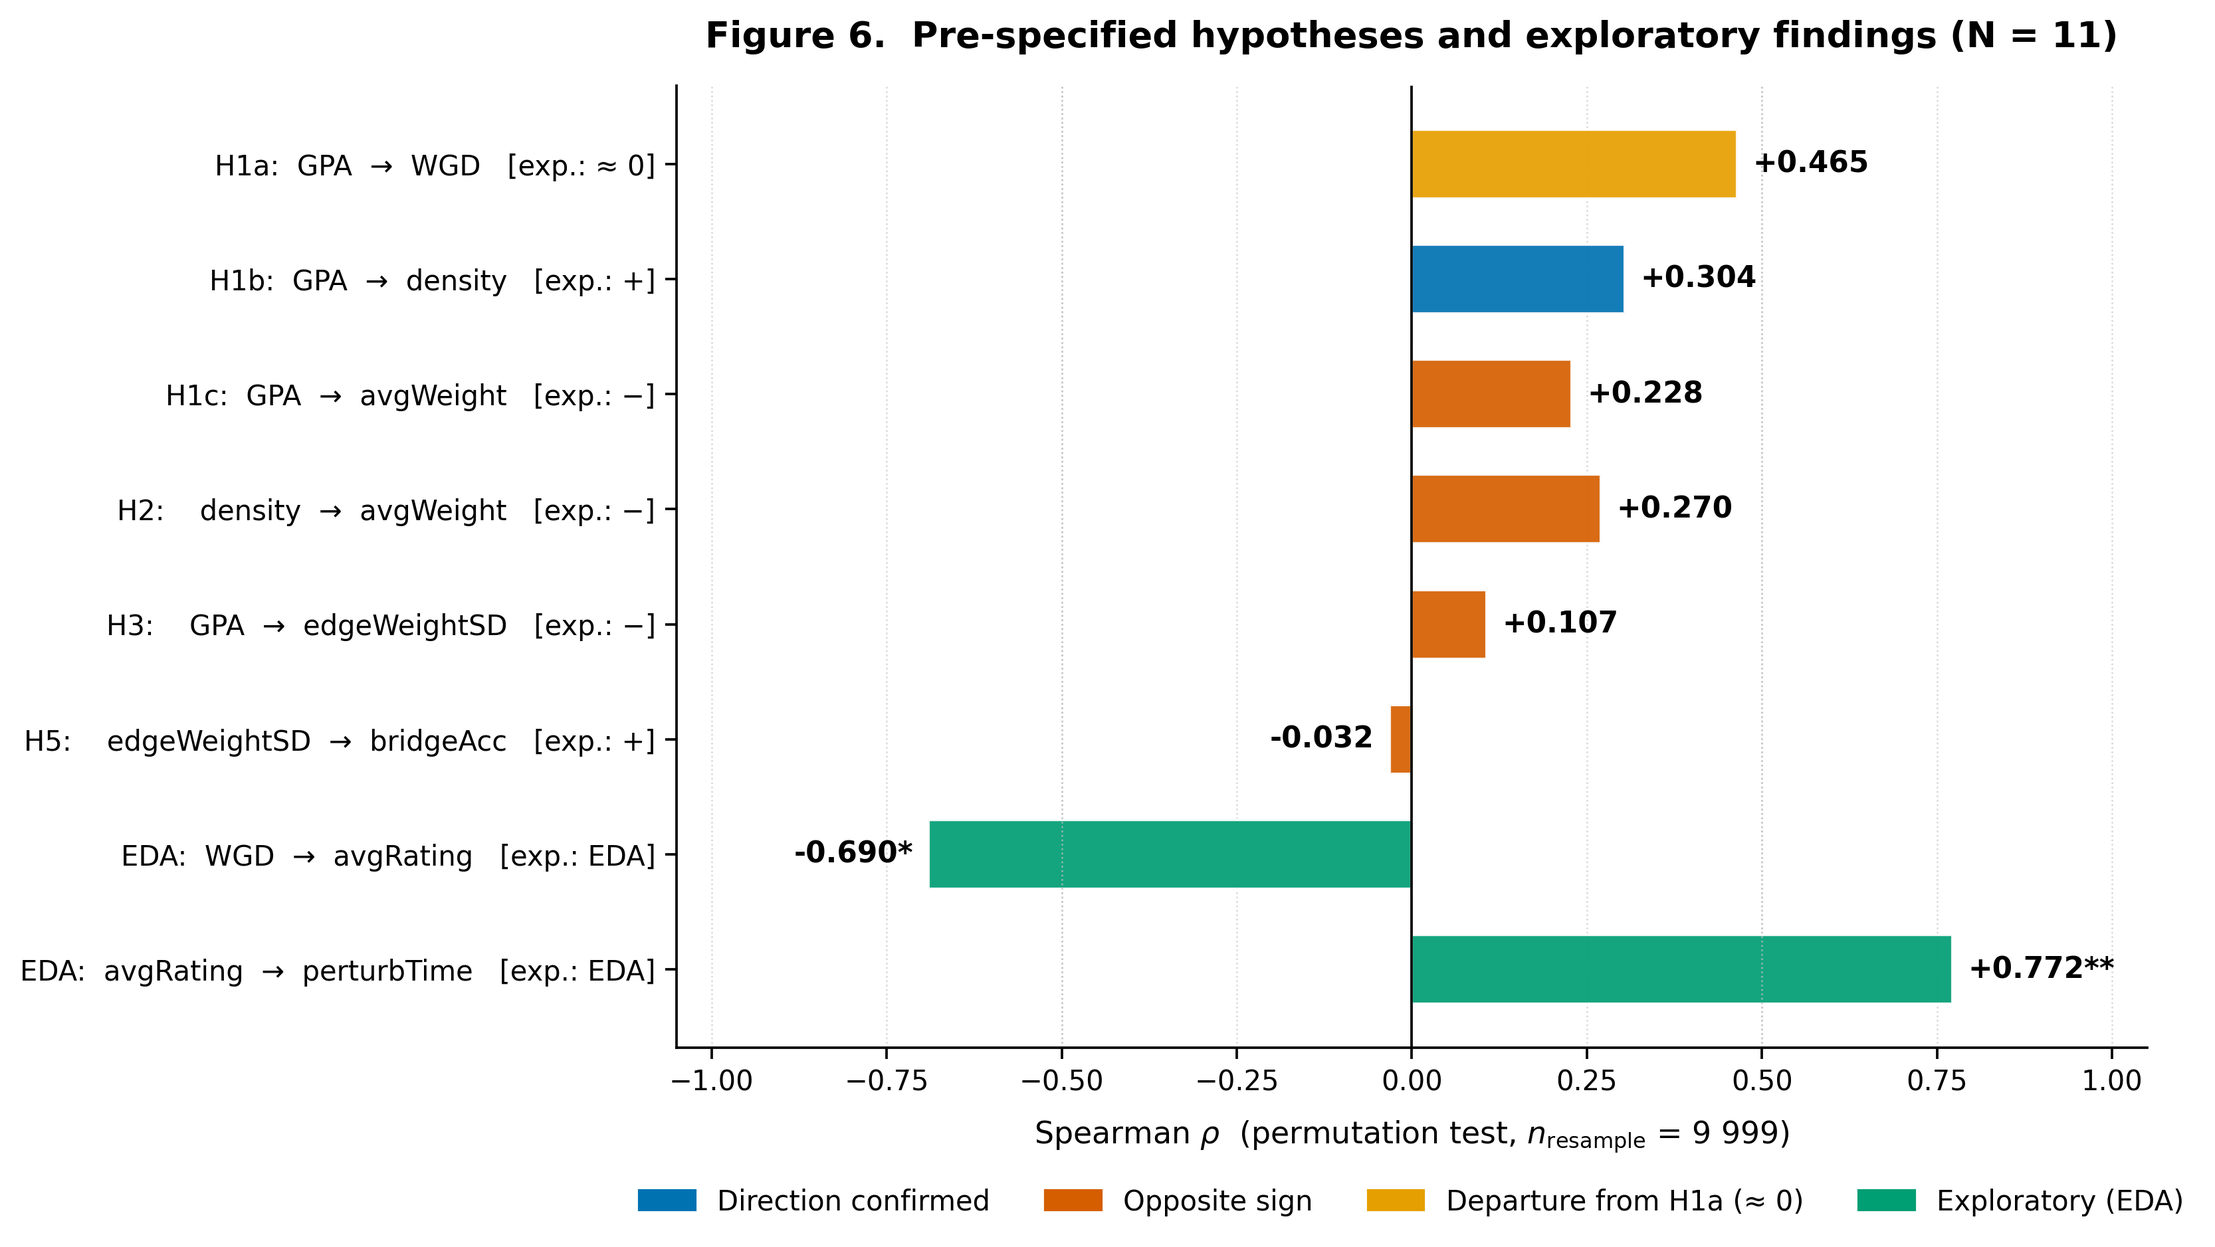
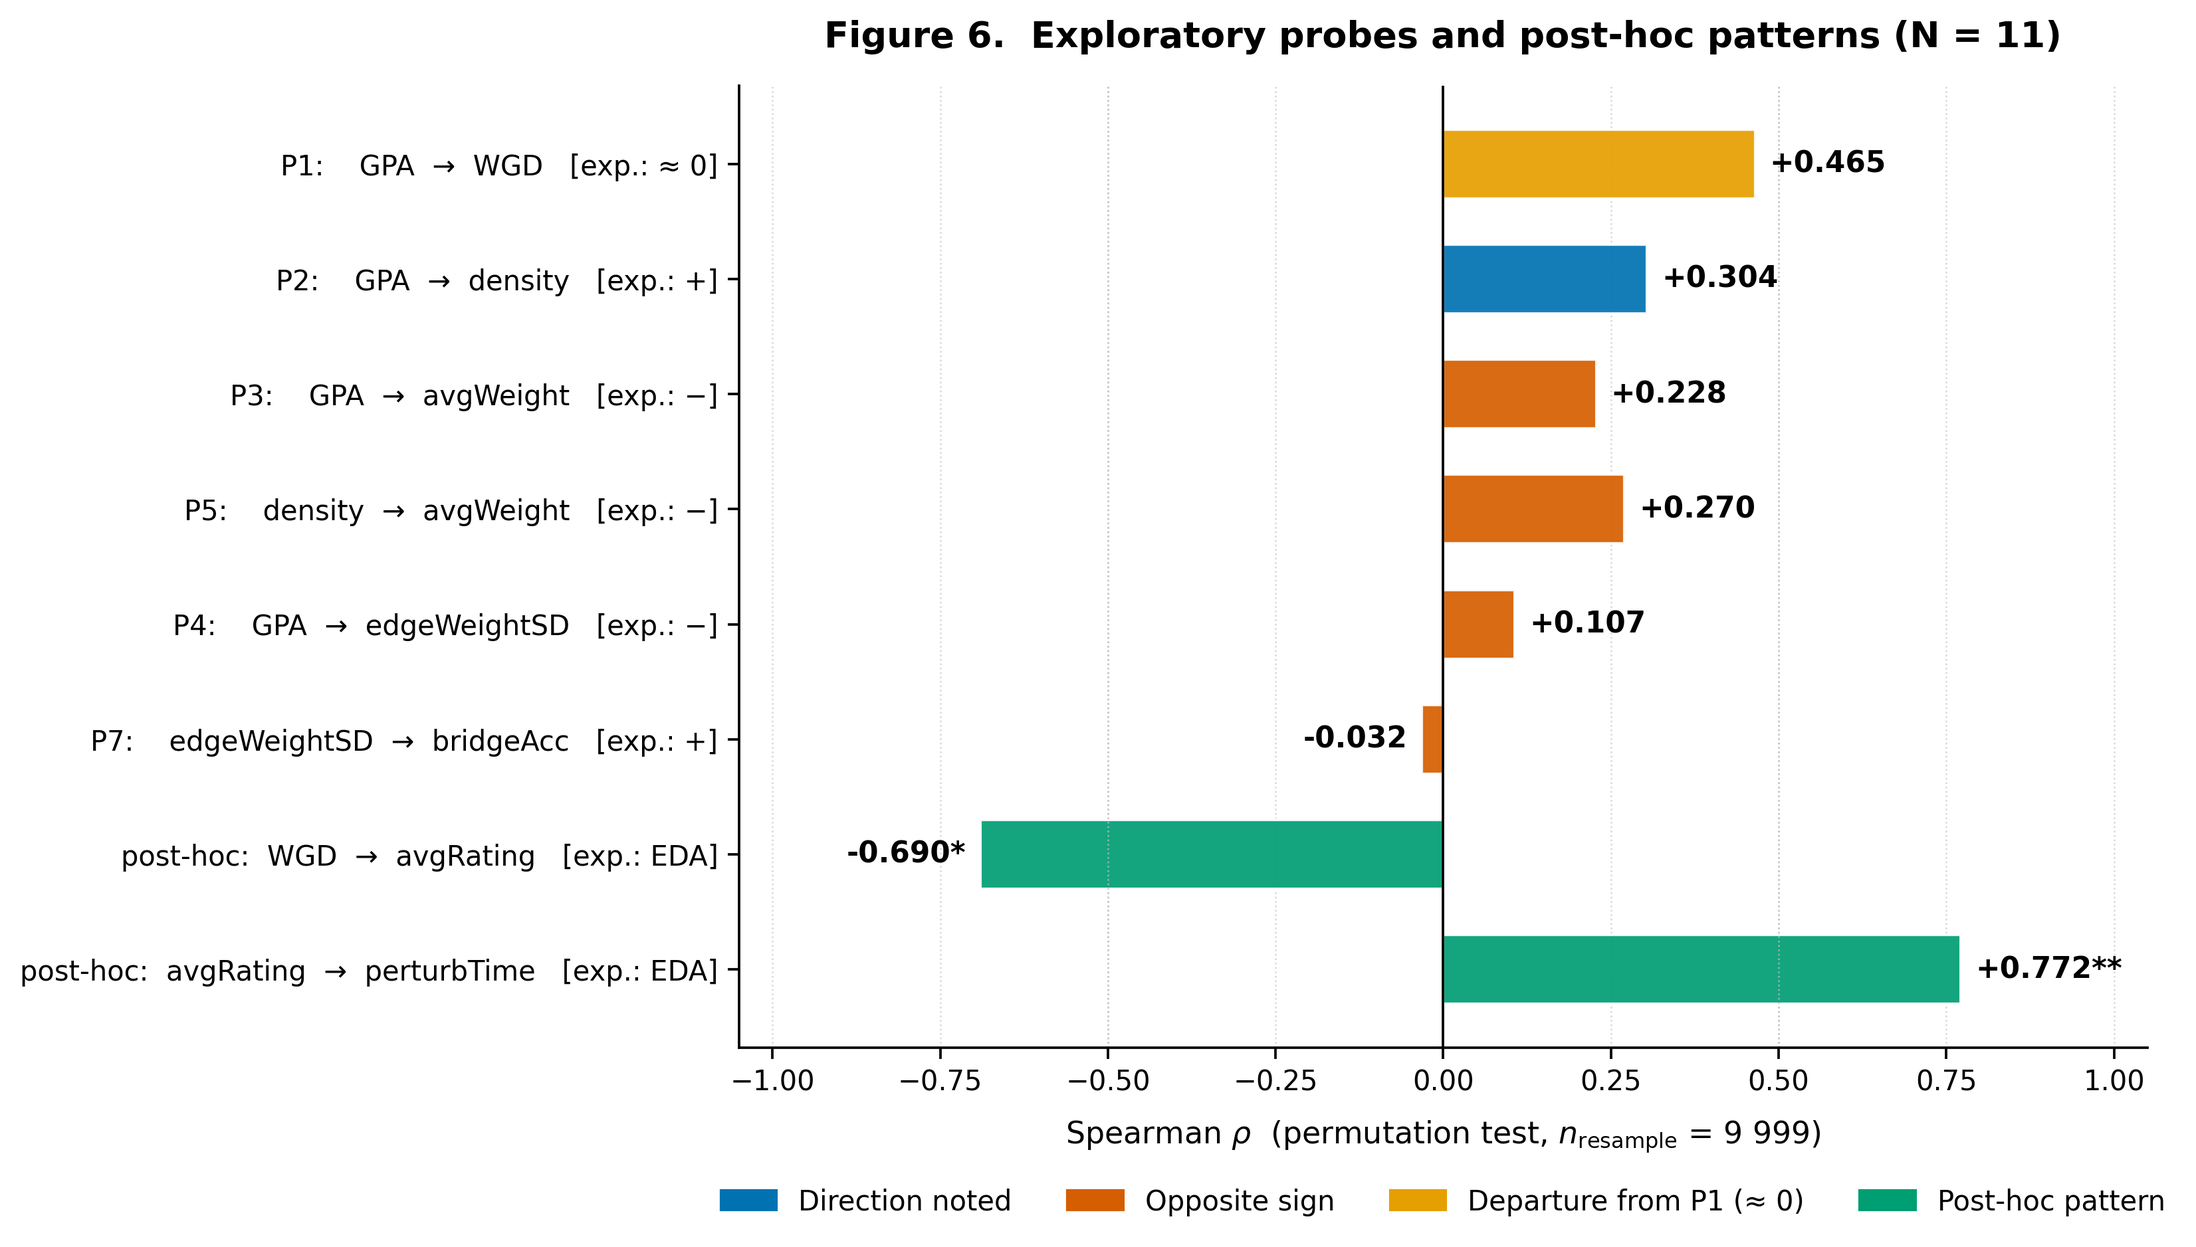
title: 'What GPA Misses' — reframe as exploratory
Reframe from pre-registered hypothesis test to exploratory pilot.
GPA-themed catchier title. H1–H6 → P1–P8 directional probes.
EDA / hypothesis language → "post-hoc pattern" / "probe".
Verdict classes simplified ("Not resolvable", "Noise", "Opposite sign").
Add a closing reading — GPA does not predict map structure in this cohort.

Re-render fig6 with new probe labels.

diff --git a/report-site/index.html b/report-site/index.html
@@ -2,13 +2,13 @@
 <html lang="en">
   <head>
     <meta charset="utf-8" />
-    <meta name="description" content="A pilot study in psychology curriculum design. 12 students. 14 learning outcomes. 91 possible connections. Most students drew them all." />
-    <meta property="og:title" content="Why Students Draw Everything" />
-    <meta property="og:description" content="A pilot for scalable curriculum diagnostics. 12 → 300+. Compliance, the Socratic effect, and one Dunning–Kruger." />
-    <meta name="keywords" content="concept map, complete graph, K14, learning outcomes, compliance adaptation, Socratic effect, Dunning-Kruger, curriculum design, ESG, KSE" />
+    <meta name="description" content="What GPA Misses — an exploratory pilot in psychology curriculum design. GPA tells you who passes; concept maps tell you what they actually understood." />
+    <meta property="og:title" content="What GPA Misses" />
+    <meta property="og:description" content="Exploratory pilot. GPA correlates with little of what students' concept maps reveal about their knowledge structure." />
+    <meta name="keywords" content="GPA, concept map, complete graph, K14, learning outcomes, compliance, Socratic effect, Dunning-Kruger, curriculum design, exploratory, KSE" />
     <meta name="viewport" content="width=device-width, initial-scale=1" />
 
-    <title>Why Students Draw Everything · a pilot in psychology curriculum design</title>
+    <title>What GPA Misses · an exploratory pilot in psychology curriculum design</title>
 
     <link href="https://fonts.googleapis.com/css?family=Google+Sans:400,500,700|Noto+Sans:400,500,600|Castoro|JetBrains+Mono:400,500" rel="stylesheet" />
     <link rel="stylesheet" href="https://cdn.jsdelivr.net/npm/bulma@0.9.4/css/bulma.min.css" />
@@ -266,16 +266,16 @@
           <div class="columns is-centered">
             <div class="column has-text-centered">
 
-              <span class="kicker">PSY555 · Pilot study · April 2026</span>
+              <span class="kicker">PSY555 · Exploratory pilot · April 2026</span>
 
-              <h2 class="title is-1 publication-title" style="font-size:2.7rem;">
-                Why Students Draw Everything
+              <h2 class="title is-1 publication-title" style="font-size:2.9rem;">
+                What GPA Misses
               </h2>
-              <p class="lead" style="margin-top:1rem; color:#374151;">
-                We asked 12 psychology students to map the 14 learning outcomes
-                of their programme. Nine of them connected every possible pair.
-                That changed the study — and pointed at a useful diagnostic for
-                curriculum design at scale.
+              <p class="lead" style="margin-top:1rem; color:#374151; font-size:1.2rem;">
+                GPA tells you who passes. It doesn't tell you what they
+                <em>understood</em>. Twelve psychology students. Fourteen learning
+                outcomes. We watched their concept maps and self-ratings — and
+                found three patterns GPA never sees.
               </p>
 
               <div class="is-size-6 publication-authors" style="margin-top:1.5rem;">
@@ -343,15 +343,16 @@
         <h2 class="section-title">A diagnostic for curriculum design — at scale</h2>
         <p class="section-intro">
           Universities decide how courses connect to each other once, then teach the same
-          structure for years. We wanted a fast way to <em>see</em> what students think the
-          structure is — without interviewing them. If a one-hour computerised concept-mapping
-          protocol gives a usable signal, the same protocol scales to a 300+ student cohort
-          and turns the question "is our programme coherent?" into a measurable.
+          structure for years. GPA tells the registrar who passed. It doesn't tell anyone
+          which ideas actually link up in students' heads — or where the programme silently
+          rewards memorisation over comprehension.
         </p>
         <p class="section-intro">
-          So: pilot first. Twelve students, controlled instrument, six pre-registered hypotheses.
-          We expected to come back with effect sizes. We came back with a different finding —
-          and a sharper protocol for the next iteration.
+          So we built a one-hour computerised concept-mapping protocol and ran it on a small
+          cohort first. Twelve students. Exploratory analysis — no formal hypothesis testing
+          on N this small. The point of the pilot was simple: <em>does the instrument produce
+          a usable signal?</em> If yes, the same protocol scales to 300+ students next year
+          and becomes a quantitative curriculum-design tool that reaches what GPA never could.
         </p>
       </div>
     </section>
@@ -433,21 +434,21 @@
           </div>
 
           <div class="recipe-card">
-            <span class="recipe-num">5 · Specify</span>
-            <h4>Models</h4>
-            <p>Spearman <span class="rho">ρ̂</span><sub>S</sub> per hypothesis. Permutation null with <code>n</code> = 9 999 (seed 42). Two-tailed. No multivariate models at N = 11.</p>
+            <span class="recipe-num">5 · Probe</span>
+            <h4>Exploratory probes</h4>
+            <p>Eight directional probes informed by theory (Geary 2008; Dunning &amp; Kruger 1999). Spearman <span class="rho">ρ̂</span><sub>S</sub> with permutation null, <code>n</code> = 9 999 (seed 42). No formal hypothesis testing at N = 11.</p>
           </div>
 
           <div class="recipe-card">
             <span class="recipe-num">6 · Diagnose</span>
             <h4>Quality checks</h4>
-            <p>For every test report ρ̂, <code>p</code><sub>perm</sub>, and leave-one-out Δρ. Critical |ρ| at α = .05 is ≈ 0.62 — only large effects detectable.</p>
+            <p>For every probe report ρ̂, <code>p</code><sub>perm</sub>, and leave-one-out Δρ. At N = 11 only |ρ| ≳ 0.62 reaches α = .05 — effect <em>sizes</em> are the export.</p>
           </div>
 
           <div class="recipe-card">
             <span class="recipe-num">7 · Interpret</span>
-            <h4>Verdict classes</h4>
-            <p>Three classes: <em>direction confirmed</em>, <em>opposite sign</em>, <em>structurally untestable</em> (Var(X) too small to test the hypothesis as written).</p>
+            <h4>Status classes</h4>
+            <p>Three: <em>direction noted</em>, <em>opposite sign</em>, <em>not resolvable</em> (variance of one input collapsed below the threshold needed to see the contrast).</p>
           </div>
 
           <div class="recipe-card">
@@ -460,62 +461,70 @@
       </div>
     </section>
 
-    <!-- ═══════════════════════════════════════ THE WALL ═══ -->
+    <!-- ═══════════════════════════════════════ GPA PROBES ═══ -->
     <section class="section hero is-light" id="ceiling">
       <div class="container is-max-desktop">
-        <span class="kicker">Finding 1 — the wall</span>
-        <h2 class="section-title">Density saturated. Most hypotheses became untestable.</h2>
+        <span class="kicker">Probes — GPA &amp; the ceiling</span>
+        <h2 class="section-title">GPA tracked grades, not graph structure</h2>
         <p class="section-intro">
-          Four of six pre-specified hypotheses depend on between-subject variance in graph density.
-          Nine participants saturated at <span class="mono">density = 1.000</span>. The variance
-          collapsed to a degenerate distribution (one cluster at 1.0, two outliers below). With
-          almost no rank information left, those hypotheses are <em>structurally</em> untestable —
-          not refuted, not null, but mathematically out of reach in this sample.
+          We ran eight directional probes — four involving GPA, four involving graph-internal
+          structure. The headline pattern is simple: GPA has weak, mostly noisy associations with
+          every concept-graph metric we measured. And four of the eight probes can't be resolved
+          at all in this sample because nine students saturated the graph at
+          <span class="mono">density = 1.000</span>.
         </p>
 
         <div class="banner-warning">
-          <h4>⚠ Compliance adaptation, not laziness</h4>
+          <h4>⚠ Why everyone connected everything</h4>
           <p>
-            We read the saturation as a rational response to an under-constrained task: with no edge
-            budget and no penalty for spurious links, the dominant student strategy is to connect
-            everything and avoid the risk of omitting a "right" connection. The artefact is the
-            finding. Future versions of the protocol cap <span class="mono">|E|</span>, force
-            ranking instead of categorical weighting, and score with a precision penalty.
+            Saturation is a rational response to an under-constrained task: with no edge budget and
+            no penalty for spurious links, students minimise the risk of omitting a "right"
+            connection by drawing them all. The artefact is itself a finding — and the design fix
+            for the next iteration: cap <span class="mono">|E|</span>, force a ranking instead of
+            categorical 1–3 weights, score with a precision penalty.
           </p>
         </div>
 
-        <h3 class="section-sub">Hypothesis outcomes at a glance</h3>
+        <h3 class="section-sub">Probes at a glance</h3>
         <figure>
-          <img src="fig6_hypotheses.png" alt="Hypothesis bar chart" style="width:100%; max-width:1000px; display:block; margin:0 auto;" />
+          <img src="fig6_hypotheses.png" alt="Probe bar chart" style="width:100%; max-width:1000px; display:block; margin:0 auto;" />
         </figure>
         <figcaption style="max-width:1000px; margin:0.6rem auto 1.5rem;">
-          <b>Figure 6.</b>  Observed Spearman <span class="rho">ρ</span> for each hypothesis with
-          the expected sign in brackets. Two starred bars reach asymptotic significance — both are
-          exploratory effects, not pre-specified ones.
+          <b>Figure 6.</b>  Observed Spearman <span class="rho">ρ</span> for each probe with the
+          theoretical expectation in brackets. Two starred bars reach asymptotic significance —
+          both are post-hoc patterns (the Socratic and confidence-penalty effects), not GPA probes.
         </figcaption>
 
         <div class="table-container">
           <table class="results-table">
             <thead>
               <tr>
-                <th>ID</th><th>Predictor → Outcome</th><th>Expected</th><th><span class="rho">ρ̂</span></th><th><i>p</i><sub>perm</sub></th><th>Verdict</th>
+                <th>ID</th><th>Predictor → Outcome</th><th>Expected</th><th><span class="rho">ρ̂</span></th><th><i>p</i><sub>perm</sub></th><th>Status</th>
               </tr>
             </thead>
             <tbody>
-              <tr><th>H1a</th><td>GPA → WGD</td><td class="num">≈ 0</td><td class="num">+0.465</td><td class="num">.153</td><td><span class="v-ns">Mixed</span></td></tr>
-              <tr><th>H1b</th><td>GPA → density</td><td class="num">+</td><td class="num">+0.304</td><td class="num">.389</td><td><span class="v-ns">Direction OK</span></td></tr>
-              <tr><th>H1c</th><td>GPA → avgWeight</td><td class="num">−</td><td class="num">+0.228</td><td class="num">.497</td><td><span class="v-opp">Opposite</span></td></tr>
-              <tr><th>H2</th><td>density → avgWeight</td><td class="num">−</td><td class="num">+0.270</td><td class="num">.431</td><td><span class="v-na">Untestable</span></td></tr>
-              <tr><th>H3</th><td>GPA → edgeWeightSD</td><td class="num">−</td><td class="num">+0.107</td><td class="num">.753</td><td><span class="v-ns">Null</span></td></tr>
-              <tr><th>H4</th><td>edgeWeightSD → pathfindingAcc</td><td class="num">+</td><td class="num">—</td><td class="num">N = 2</td><td><span class="v-na">Not tested</span></td></tr>
-              <tr><th>H5</th><td>edgeWeightSD → bridgeAcc</td><td class="num">+</td><td class="num">−0.032</td><td class="num">.925</td><td><span class="v-ns">Null</span></td></tr>
-              <tr><th>H6</th><td>zombie ILO → selfRating ≥ integrated</td><td>—</td><td>—</td><td>—</td><td><span class="v-na">Untestable</span></td></tr>
+              <tr><th>P1</th><td>GPA → WGD (overall integration)</td><td class="num">≈ 0</td><td class="num">+0.465</td><td class="num">.153</td><td><span class="v-ns">Weak +</span></td></tr>
+              <tr><th>P2</th><td>GPA → density</td><td class="num">+</td><td class="num">+0.304</td><td class="num">.389</td><td><span class="v-na">Not resolvable</span></td></tr>
+              <tr><th>P3</th><td>GPA → avgWeight</td><td class="num">−</td><td class="num">+0.228</td><td class="num">.497</td><td><span class="v-opp">Opposite sign</span></td></tr>
+              <tr><th>P4</th><td>GPA → edgeWeightSD (hierarchy)</td><td class="num">−</td><td class="num">+0.107</td><td class="num">.753</td><td><span class="v-ns">Noise</span></td></tr>
+              <tr><th>P5</th><td>density → avgWeight</td><td class="num">−</td><td class="num">+0.270</td><td class="num">.431</td><td><span class="v-na">Not resolvable</span></td></tr>
+              <tr><th>P6</th><td>edgeWeightSD → pathfindingAcc</td><td class="num">+</td><td class="num">—</td><td class="num">N = 2</td><td><span class="v-na">Not run</span></td></tr>
+              <tr><th>P7</th><td>edgeWeightSD → bridgeAcc</td><td class="num">+</td><td class="num">−0.032</td><td class="num">.925</td><td><span class="v-ns">Noise</span></td></tr>
+              <tr><th>P8</th><td>zombie ILO → selfRating ≥ integrated</td><td>—</td><td>—</td><td>—</td><td><span class="v-na">Not resolvable</span></td></tr>
             </tbody>
             <tfoot>
-              <tr><td colspan="6"><b>Table 1.</b> N = 11. p uncorrected. "Untestable" = the predictor variance collapsed below the threshold needed to resolve the hypothesised contrast.</td></tr>
+              <tr><td colspan="6"><b>Table 1.</b> Exploratory probes, N = 11. p uncorrected. "Not resolvable" = the predictor's variance collapsed below the threshold needed to see the contrast (the density-ceiling problem). All four GPA probes (P1–P4) sit in noise — GPA does not predict map structure in this cohort.</td></tr>
             </tfoot>
           </table>
         </div>
+
+        <p style="margin-top:1.2rem; color:#374151;">
+          The plain-English reading of P1–P4: <b>students with higher GPAs do not draw measurably
+          more integrated, more hierarchical, or more weight-differentiated concept maps than students
+          with lower GPAs.</b> If GPA tracked the structural quality of subject knowledge, one or
+          more of these four probes should have produced a large, signed effect. None did. That is
+          the central exploratory result of the pilot.
+        </p>
       </div>
     </section>
 

diff --git a/figures.py b/figures.py
@@ -486,14 +486,14 @@ print('saved fig5_corr_heatmap.png')
 # FIGURE 6 — Hypothesis summary: observed rho (N = 11)
 # ═════════════════════════════════════════════════════════════════════════════
 hyp_labels = [
-    'H1a:  GPA  →  WGD',
-    'H1b:  GPA  →  density',
-    'H1c:  GPA  →  avgWeight',
-    'H2:    density  →  avgWeight',
-    'H3:    GPA  →  edgeWeightSD',
-    'H5:    edgeWeightSD  →  bridgeAcc',
-    'EDA:  WGD  →  avgRating',
-    'EDA:  avgRating  →  perturbTime',
+    'P1:    GPA  →  WGD',
+    'P2:    GPA  →  density',
+    'P3:    GPA  →  avgWeight',
+    'P5:    density  →  avgWeight',
+    'P4:    GPA  →  edgeWeightSD',
+    'P7:    edgeWeightSD  →  bridgeAcc',
+    'post-hoc:  WGD  →  avgRating',
+    'post-hoc:  avgRating  →  perturbTime',
 ]
 exp_signs  = ['≈ 0', '+', '−', '−', '−', '+', 'EDA', 'EDA']
 obs_rho    = [+0.465, +0.304, +0.228, +0.270, +0.107, -0.032, -0.690, +0.772]
@@ -535,14 +535,14 @@ ax.set_yticks(y)
 ax.set_yticklabels(labels_with_exp, fontsize=10)
 
 ax.set_xlabel(r'Spearman $\rho$  (permutation test, $n_\mathrm{resample}$ = 9 999)')
-ax.set_title('Figure 6.  Pre-specified hypotheses and exploratory findings (N = 11)')
+ax.set_title('Figure 6.  Exploratory probes and post-hoc patterns (N = 11)')
 ax.set_xlim(-1.05, 1.05)
 
 legend = [
-    mpatches.Patch(color=C_BLUE,   label='Direction confirmed'),
+    mpatches.Patch(color=C_BLUE,   label='Direction noted'),
     mpatches.Patch(color=C_RED,    label='Opposite sign'),
-    mpatches.Patch(color=C_ORANGE, label='Departure from H1a (≈ 0)'),
-    mpatches.Patch(color=C_GREEN,  label='Exploratory (EDA)'),
+    mpatches.Patch(color=C_ORANGE, label='Departure from P1 (≈ 0)'),
+    mpatches.Patch(color=C_GREEN,  label='Post-hoc pattern'),
 ]
 ax.legend(handles=legend, frameon=False,
           loc='upper center', bbox_to_anchor=(0.5, -0.12), ncol=4)
